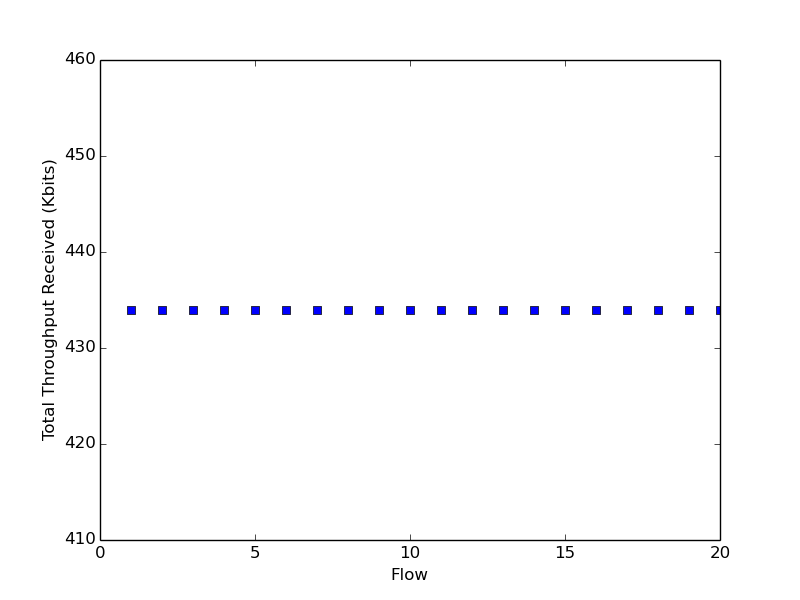
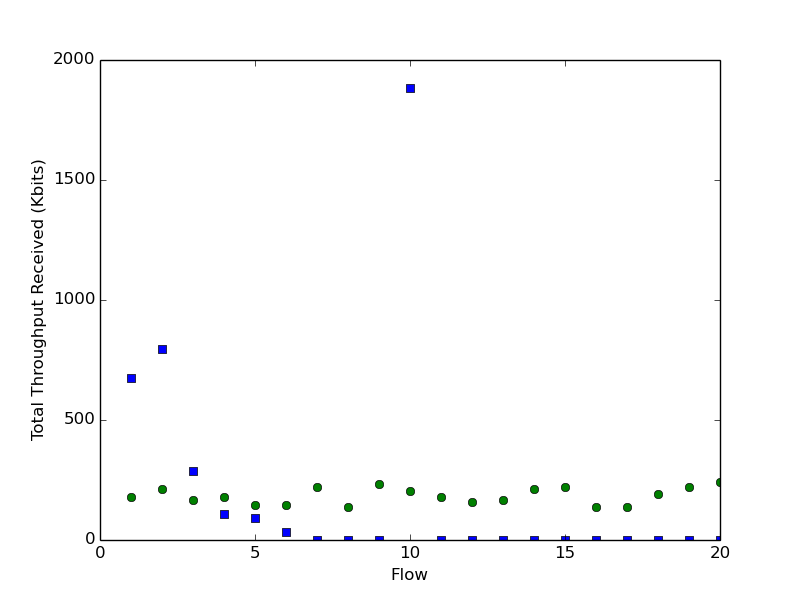
comparison done! chart reproduced about 90%

diff --git a/scratch/drr.cc b/scratch/drr.cc
@@ -82,7 +82,7 @@ UdpReceiverTracer (Ptr<OutputStreamWrapper> stream,
 {
   InetSocketAddress socketAdd = InetSocketAddress::ConvertFrom (srcAddress);
 
-  *stream->GetStream () << Simulator::Now ().GetSeconds () << "," << "port:"
+  *stream->GetStream () << Simulator::Now ().GetSeconds () << ","
                         << socketAdd.GetPort () << ","
                         << packet->GetSize () << std::endl;
 }
@@ -114,13 +114,18 @@ main (int argc, char *argv[])
 
   int time = 2000; // run simulation for x seconds
 
+  std::string queueDisc = "drr";
+  CommandLine cmd (__FILE__);
+  cmd.AddValue ("queueDisc", "The queue disc to use", queueDisc);
+  cmd.Parse (argc, argv);
+
   /* NS-3 is great when it comes to logging. It allows logging in different
    * levels for different component (scripts/modules). You can read more
    * about that at https://www.nsnam.org/docs/manual/html/logging.html.
    */
   LogComponentEnable("DRRExample", LOG_LEVEL_DEBUG);
 
-  NS_LOG_DEBUG("DRR Simulation for:" <<
+  NS_LOG_DEBUG("Simulation with queueDisc:" << queueDisc <<
                " flowPerHost=" << flowPerHost << " illBehavedFlowNumber=" << illBehavedFlowNumber <<
                " normalFlowInterval=" << normalFlowInterval << " illBehavedFlowInterval=" <<
                illBehavedFlowInterval << " time=" << time);
@@ -129,11 +134,11 @@ main (int argc, char *argv[])
   /* Traces will be written on these files for postprocessing. */
   std::string dir = "outputs/drr/";
 
-  std::string qStreamName = dir + "q.tr";
+  std::string qStreamName = dir + queueDisc + "_" + "q.tr";
   Ptr<OutputStreamWrapper> qStream;
   qStream = asciiTraceHelper.CreateFileStream (qStreamName);
 
-  std::string udpReceiverStreamName = dir + "receivedPacket.tr";
+  std::string udpReceiverStreamName = dir + queueDisc + "_" + "receivedPacket.tr";
   Ptr<OutputStreamWrapper> udpReceiverStream;
   udpReceiverStream = asciiTraceHelper.CreateFileStream (udpReceiverStreamName);
 
@@ -193,8 +198,11 @@ main (int argc, char *argv[])
 
   // use the correct attribute name to set the size of the bottleneck queue.
   TrafficControlHelper tchPfifo;
-  tchPfifo.SetRootQueueDisc ("ns3::DrrQueueDisc");
-  // tchPfifo.SetRootQueueDisc ("ns3::FifoQueueDisc");
+  if (queueDisc == "drr") {
+    tchPfifo.SetRootQueueDisc ("ns3::DrrQueueDisc");
+  } else {
+    tchPfifo.SetRootQueueDisc ("ns3::FifoQueueDisc");
+  }
 
   // tchPfifo.Install (h1s0_NetDevices);
   QueueDiscContainer s0h2_QueueDiscs = tchPfifo.Install (s0h2_NetDevices);
@@ -226,7 +234,7 @@ main (int argc, char *argv[])
 
 
   /* The sender Application */
-  for (int i = 0; i < flowPerHost; i++) {
+  for (int i = 1; i <= flowPerHost; i++) {
     UdpClientHelper sendHelper (s0h2_interfaces.GetAddress (1), receiverPort);
 
     sendHelper.SetAttribute ("MaxPackets", UintegerValue (100000));
@@ -238,9 +246,8 @@ main (int argc, char *argv[])
 
     // NOTE: packet header is 28 bytes
     // so this results in total packet size x + 28 bytes
-    // Use random between 100 and 4500 bits
-    // uint32_t packetSize = (int)(((rand() % 4401) + 100) / 8);
-    uint32_t packetSize = 200;
+    // Use random between 100 and 200 bits
+    uint32_t packetSize = (int)(((rand() % 101) + 100) / 8);
     NS_LOG_DEBUG("Flow " << i << " has packet size " << packetSize);
     sendHelper.SetAttribute ("PacketSize", UintegerValue (packetSize));
 

diff --git a/src/traffic-control/model/drr-queue-disc.cc b/src/traffic-control/model/drr-queue-disc.cc
@@ -96,7 +96,7 @@ namespace ns3 {
 
     //DrrQueueDisc constructor/destructor, SetQuantum, GetQuantum taken from FqCoDel queue code
     DrrQueueDisc::DrrQueueDisc ()
-        : m_quantum (53)
+        : m_quantum (50)
     {
         NS_LOG_FUNCTION (this << "quantum set to " << m_quantum);
     }
@@ -183,7 +183,7 @@ namespace ns3 {
                 //increment deficit
                 flow->IncreaseDeficit(m_quantum);
 
-                while(flow->GetDeficit () > 0 && flow->GetQueueDisc ()->GetCurrentSize ().GetValue () > 0)
+                while(flow->GetDeficit () > 0 && flow->GetQueueDisc ()->GetNPackets () > 0)
                 {
                     Ptr<const QueueDiscItem> head = flow->GetQueueDisc ()->Peek ();
                     uint32_t headSize = head->GetSize ();
@@ -192,8 +192,18 @@ namespace ns3 {
                     {
                         flow->DecreaseDeficit (headSize);
                         Ptr<QueueDiscItem> item = flow->GetQueueDisc ()->Dequeue ();
-                        //add flow to end of the active list
-                        m_activeList.push_back(flow);
+                        
+                        if(flow->GetQueueDisc()->GetNPackets() == 0)
+                        {
+                            //if the queue is empty, set deficit to zero, status to inactive
+                            flow->SetDeficit(0);
+                            flow->SetStatus(DrrFlow::INACTIVE);
+                        }
+                        else
+                        {
+                            //add flow to end of the active list
+                            m_activeList.push_back(flow);
+                        }
                         return item;
                     } 
                     else
@@ -202,9 +212,9 @@ namespace ns3 {
                     }
                 }
 
-                //if the queue is empty, set deficit to zero, status to inactive
                 if(flow->GetQueueDisc()->GetNPackets() == 0)
                 {
+                    //if the queue is empty, set deficit to zero, status to inactive
                     flow->SetDeficit(0);
                     flow->SetStatus(DrrFlow::INACTIVE);
                 }

diff --git a/scratch/plot_figures.py b/scratch/plot_figures.py
@@ -17,31 +17,47 @@ parser.add_argument('--dir', '-d',
                     dest="dir")
 args = parser.parse_args()
 
-portToThroughput = {}
+fifoPortToThroughput = {}
+drrPortToThroughput = {}
 
-with open(os.path.join(args.dir, 'receivedPacket.tr'),'r') as f:
+with open(os.path.join(args.dir, 'fifo_receivedPacket.tr'),'r') as f:
     for line in f:
         receivedPacketRow = line.split(',')
 
-        port = receivedPacketRow[1];
+        port = int(receivedPacketRow[1]) - 49152;
         size = int(receivedPacketRow[2]);
-        if port in portToThroughput:
-            portToThroughput[port] = portToThroughput[port] + size;
+        if port in fifoPortToThroughput:
+            fifoPortToThroughput[port] = fifoPortToThroughput[port] + size;
         else:
-            portToThroughput[port] = size;
+            fifoPortToThroughput[port] = size;
 
-for k in portToThroughput:
-    portToThroughput[k] = portToThroughput[k] / 1000
+with open(os.path.join(args.dir, 'drr_receivedPacket.tr'),'r') as f:
+    for line in f:
+        receivedPacketRow = line.split(',')
 
-x = []
-for i in range(1, 21, 1):
-    x.append(i)
+        port = int(receivedPacketRow[1]) - 49152;
+        size = int(receivedPacketRow[2]);
+        if port in drrPortToThroughput:
+            drrPortToThroughput[port] = drrPortToThroughput[port] + size;
+        else:
+            drrPortToThroughput[port] = size;
 
-print(portToThroughput.values())
+for k in fifoPortToThroughput:
+    fifoPortToThroughput[k] = fifoPortToThroughput[k] / 1000
+
+
+for k in drrPortToThroughput:
+    drrPortToThroughput[k] = drrPortToThroughput[k] / 1000
+
+
+print(fifoPortToThroughput)
+print(drrPortToThroughput)
+
 throughputFileName = os.path.join(args.dir, 'flows_throughput.png')
 
 plt.figure()
-plt.plot(x, portToThroughput.values(), 'bs')
+plt.plot(fifoPortToThroughput.keys(), fifoPortToThroughput.values(), 'bs',
+    drrPortToThroughput.keys(), drrPortToThroughput.values(), 'go')
 plt.ylabel('Total Throughput Received (Kbits)')
 plt.xlabel('Flow')
 plt.savefig(throughputFileName)
